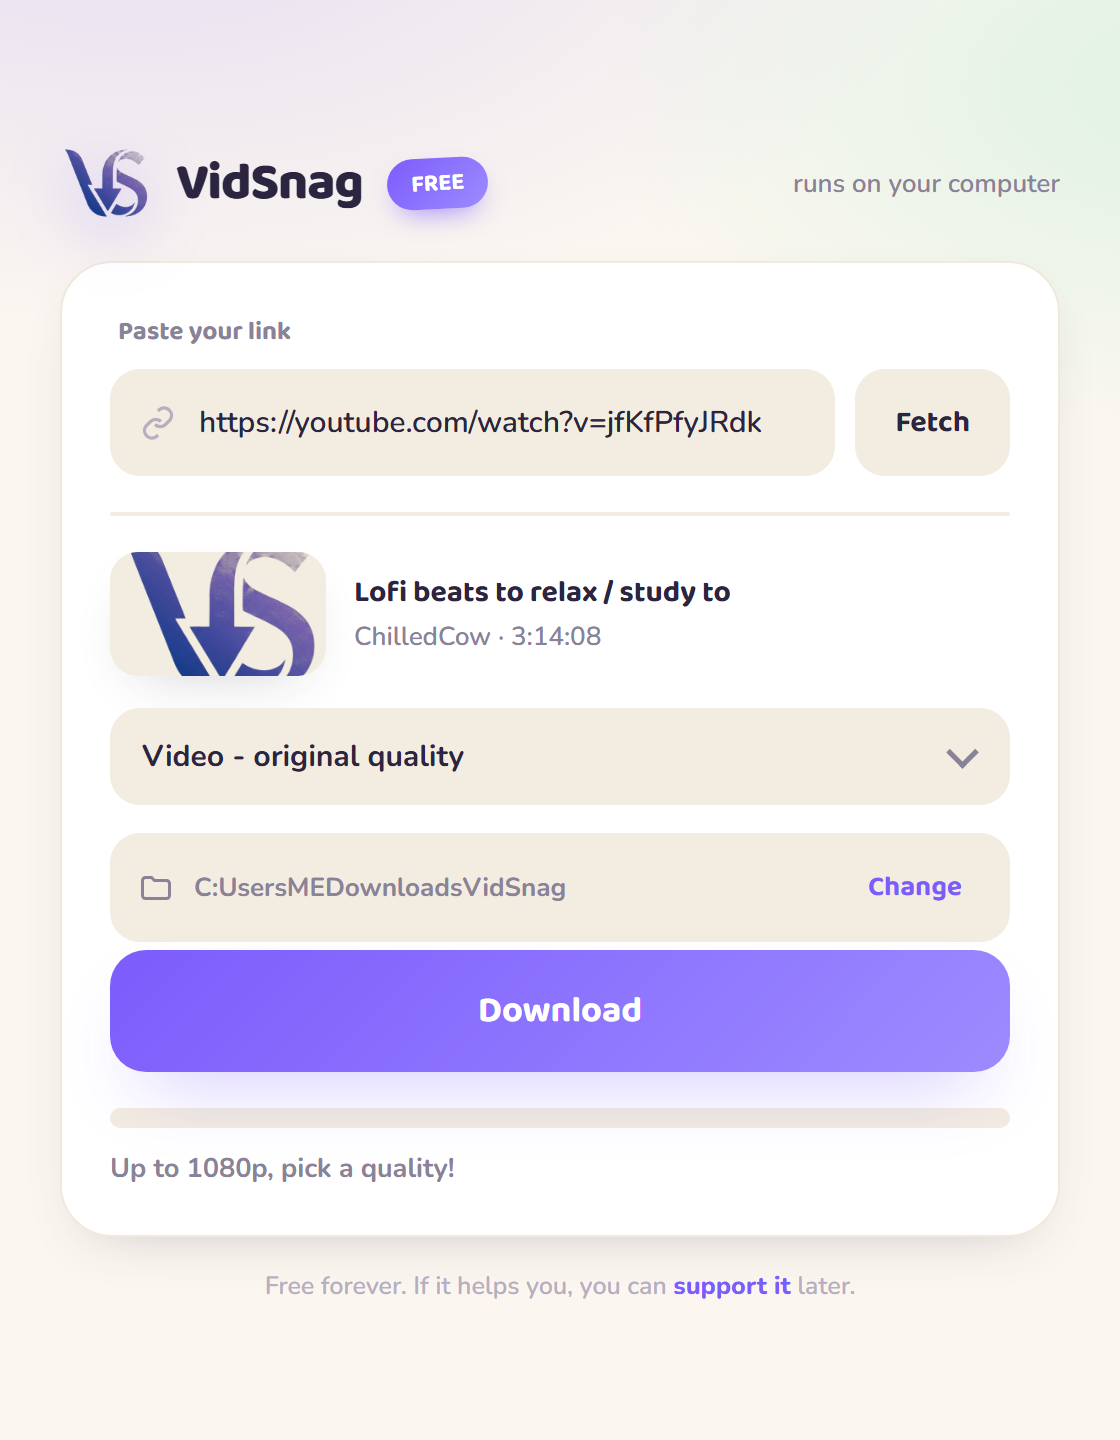
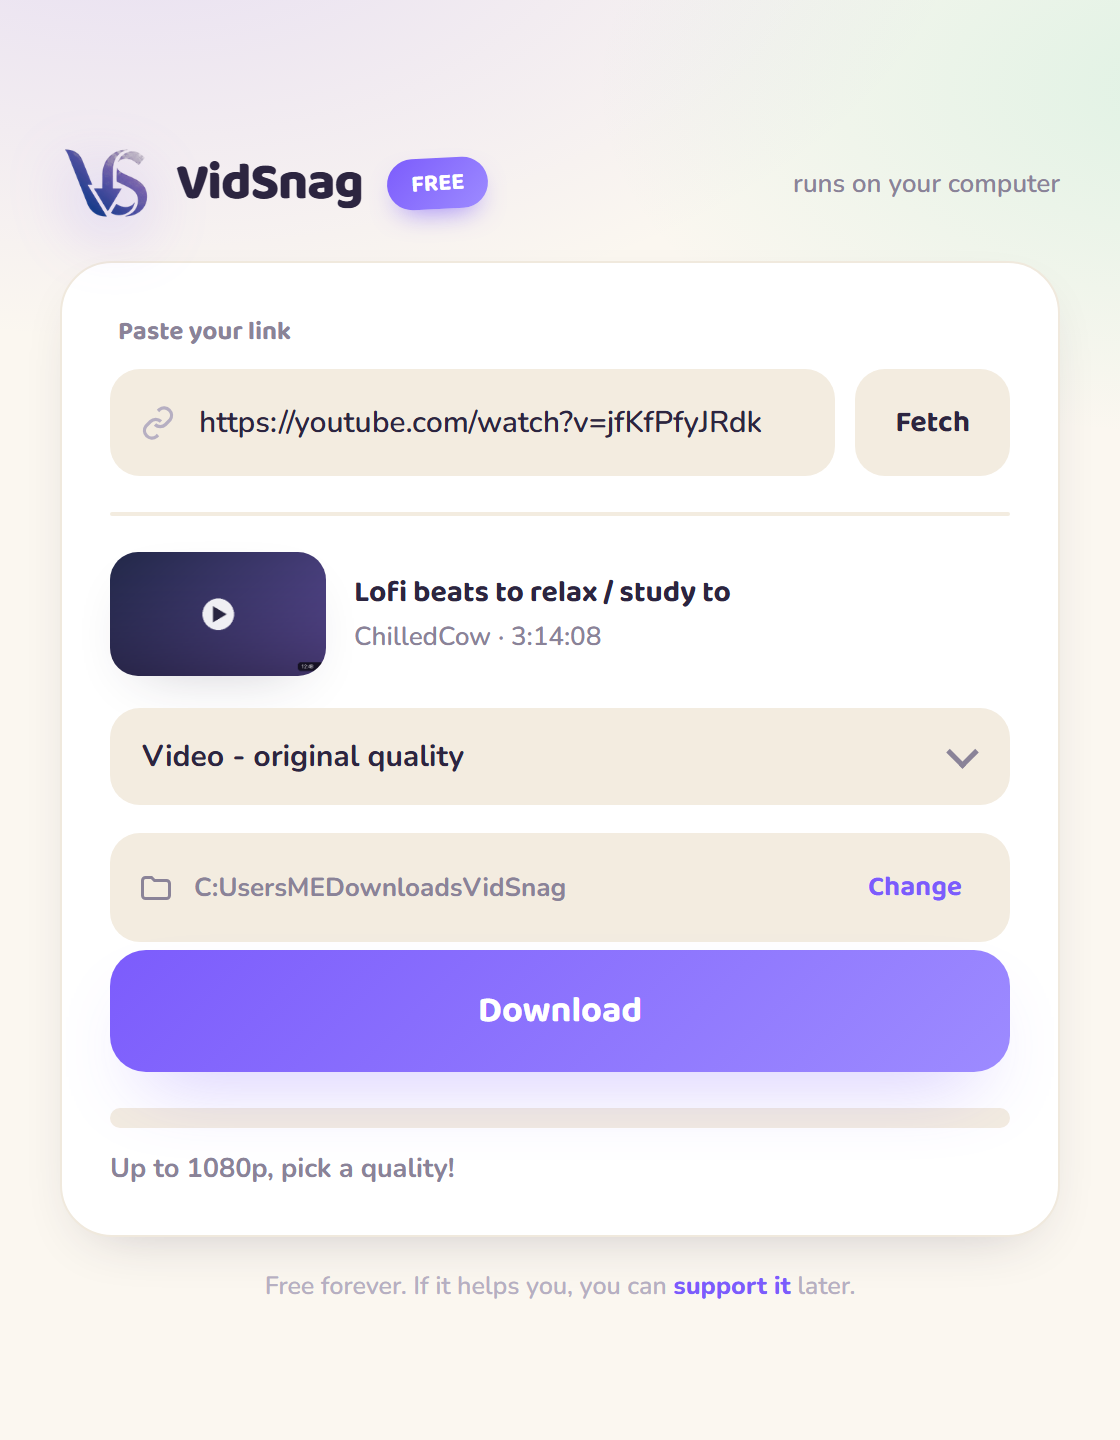
fix(website): pre-launch polish - real demo thumb, mobile nav, headline overflow
- demo image now shows a realistic video thumbnail (play button) not the logo
- add mobile hamburger menu (was cut-off Download button)
- fix mobile hero headline clipping + stack hero CTAs full-width
- responsive tiers/ticker on mobile

Changed region(s): [[0.0938, 0.375, 0.3125, 0.4688]]

diff --git a/website/styles.css b/website/styles.css
@@ -34,6 +34,24 @@ section{scroll-margin-top:80px}
   padding:9px 18px;border-radius:12px;box-shadow:0 8px 18px -8px rgba(124,92,252,.8)}
 .btn-sm:hover{filter:brightness(1.06)}
 
+/* mobile menu */
+.nav-toggle{display:none;flex-direction:column;gap:5px;background:none;border:none;cursor:pointer;
+  padding:8px;border-radius:10px}
+.nav-toggle span{display:block;width:24px;height:2.5px;border-radius:2px;background:var(--ink);
+  transition:transform .25s,opacity .2s}
+.nav-toggle.open span:nth-child(1){transform:translateY(7.5px) rotate(45deg)}
+.nav-toggle.open span:nth-child(2){opacity:0}
+.nav-toggle.open span:nth-child(3){transform:translateY(-7.5px) rotate(-45deg)}
+.mobile-menu{position:fixed;top:62px;left:0;right:0;z-index:25;background:rgba(251,247,240,.98);
+  backdrop-filter:blur(12px);border-bottom:1px solid #EFE7DA;display:none;flex-direction:column;
+  padding:12px 18px 18px;box-shadow:0 16px 30px -18px rgba(44,37,64,.4)}
+.mobile-menu.open{display:flex}
+.mobile-menu a{padding:13px 6px;font-family:"Baloo 2";font-weight:700;color:var(--ink);
+  border-bottom:1px solid #F0E9DD}
+.mobile-menu a:last-child{border-bottom:none}
+.mobile-menu .mm-cta{margin-top:10px;text-align:center;color:#fff;border:none;border-radius:13px;
+  background:linear-gradient(135deg,var(--accent),var(--accent-2));box-shadow:var(--shadow)}
+
 /* shared */
 h2{text-align:center;font-size:clamp(26px,4vw,40px);margin-bottom:8px}
 .btn-cta{display:inline-flex;align-items:center;gap:11px;font-family:"Baloo 2";font-size:18px;font-weight:700;
@@ -234,8 +252,14 @@ h2{text-align:center;font-size:clamp(26px,4vw,40px);margin-bottom:8px}
   .demo{grid-template-columns:1fr}
   .demo-text h2{text-align:center}
 }
-@media (max-width:720px){
-  .pain-grid,.steps,.feat-grid{grid-template-columns:1fr}
-  .nav-links a:not(.btn-sm){display:none}
+@media (max-width:760px){
+  .pain-grid,.steps,.feat-grid,.tiers{grid-template-columns:1fr}
+  .nav-links{display:none}
+  .nav-toggle{display:flex}
+  .hero h1{font-size:clamp(28px,8vw,40px);overflow-wrap:break-word;hyphens:auto}
+  .cta-pair{flex-direction:column;width:100%;max-width:340px}
+  .cta-pair .btn-cta,.cta-pair .btn-soft{justify-content:center;width:100%}
+  .ticker-wrap{flex-direction:column;align-items:stretch;gap:10px}
+  .ticker-label{justify-content:center}
 }
 @media (prefers-reduced-motion:reduce){*{animation:none!important;transition:none!important;scroll-behavior:auto}}

diff --git a/website/main.js b/website/main.js
@@ -101,6 +101,19 @@ function wireCountUp() {
   io.observe(el);
 }
 
+function wireMobileMenu() {
+  const btn = document.getElementById("navToggle");
+  const menu = document.getElementById("mobileMenu");
+  if (!btn || !menu) return;
+  const close = () => { btn.classList.remove("open"); menu.classList.remove("open"); btn.setAttribute("aria-expanded", "false"); };
+  btn.addEventListener("click", () => {
+    const open = menu.classList.toggle("open");
+    btn.classList.toggle("open", open);
+    btn.setAttribute("aria-expanded", String(open));
+  });
+  menu.querySelectorAll("a").forEach(a => a.addEventListener("click", close));
+}
+
 document.addEventListener("DOMContentLoaded", () => {
   wireLinks();
   renderWall();
@@ -108,4 +121,5 @@ document.addEventListener("DOMContentLoaded", () => {
   wireDonation();
   wireNav();
   wireCountUp();
+  wireMobileMenu();
 });

diff --git a/website/index.html b/website/index.html
@@ -41,7 +41,17 @@
       <a href="#faq">FAQ</a>
       <a class="btn-sm" href="#download">Download</a>
     </nav>
+    <button class="nav-toggle" id="navToggle" aria-label="Menu" aria-expanded="false">
+      <span></span><span></span><span></span>
+    </button>
   </header>
+  <div class="mobile-menu" id="mobileMenu">
+    <a href="#how">How it works</a>
+    <a href="#features">Features</a>
+    <a href="#faq">FAQ</a>
+    <a href="#supporters">Supporters</a>
+    <a class="mm-cta" href="#download">Download free</a>
+  </div>
 
   <main>
     <!-- HERO -->